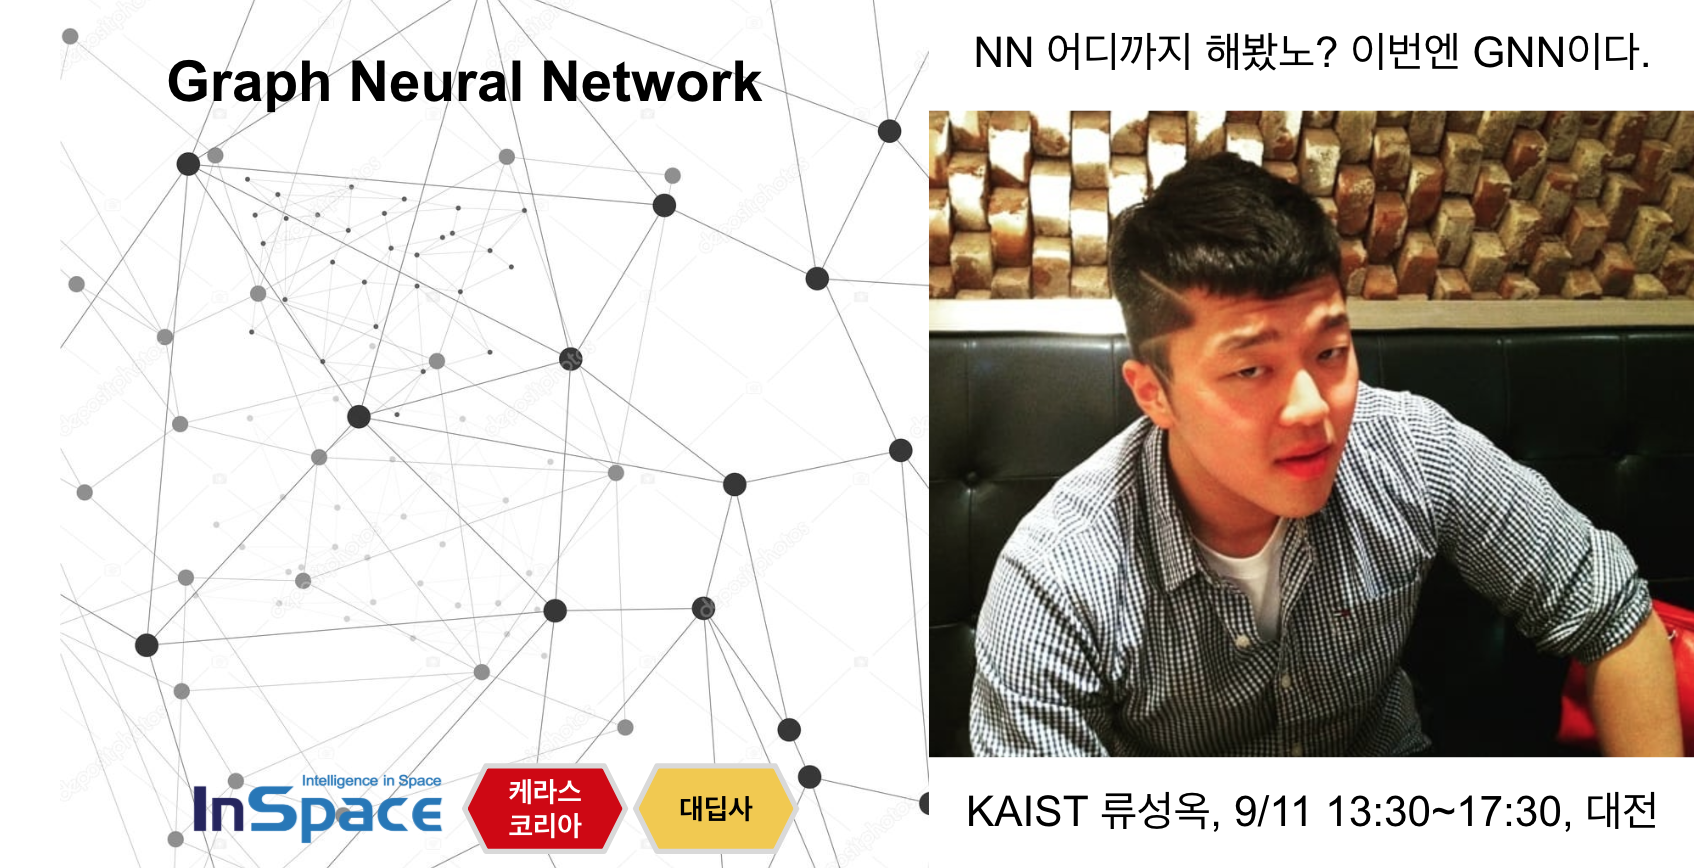
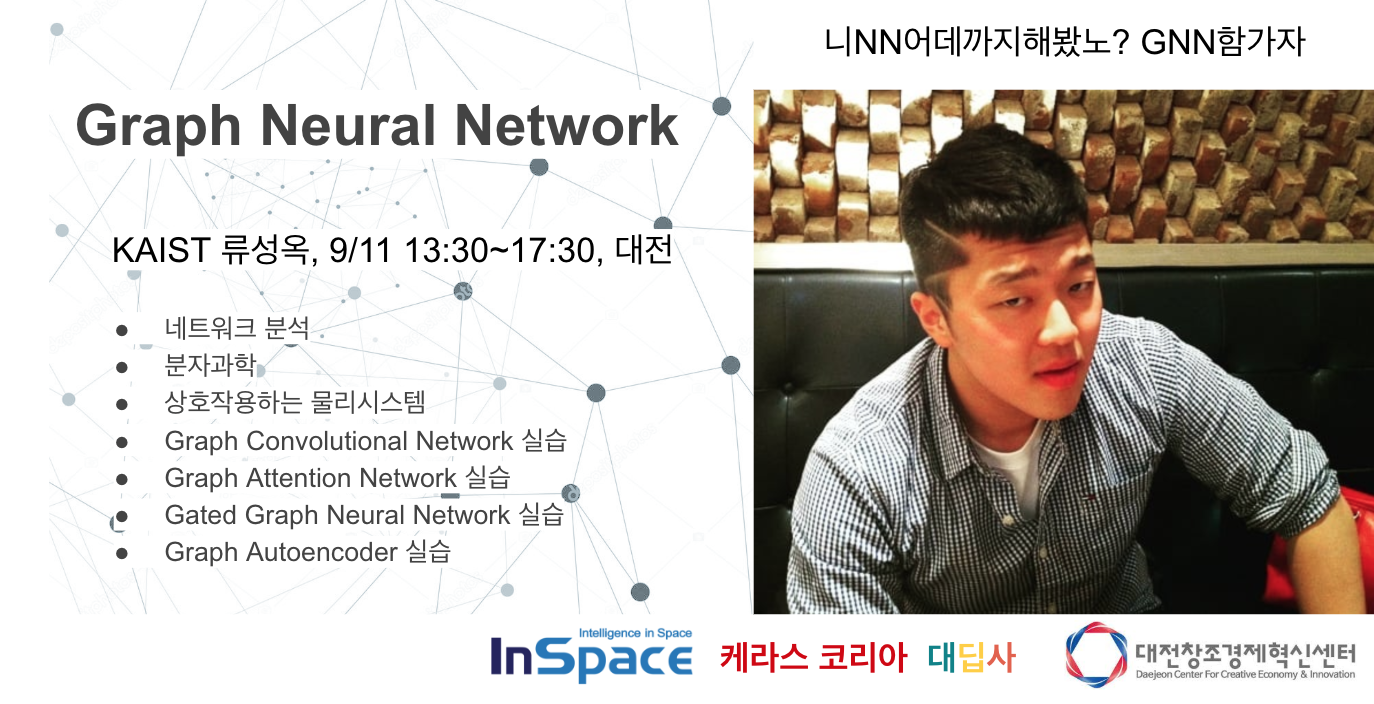
no message

diff --git a/_posts/2018-9-11-ISS_xNN_Graph_Neural_Network.md b/_posts/2018-9-11-ISS_xNN_Graph_Neural_Network.md
@@ -1,6 +1,6 @@
 ---
 layout: post
-title:  "NN 어디까지 해봤노? 이번엔 GNN이다."
+title:  "니NN어데까지해봤노? GNN함가자"
 author: 김태영
 date:   2018-09-11 13:00:00
 categories: seminar
@@ -19,7 +19,8 @@ image: http://tykimos.github.io/warehouse/2018-9-11-ISS_xNN_Graph_Neural_Network
 1. 일시 : 2018년 9월 11일 오후 1시 40분
 2. 장소 : 대전 유성구 대학로291 KAIST 나노종합기술원 9F 대전창조경제혁신센터 E19
 3. 주최 : (주)인스페이스, 케라스 코리아, 대딥사
-4. 발표내용
+4. 후원 : 대전창조경제혁신센터
+5. 발표내용
 
     * 그래프 신경망의 필요성
     * 그래프 신경망의 이론 및 실용적인 구현에 필요한 지식 
@@ -33,7 +34,7 @@ image: http://tykimos.github.io/warehouse/2018-9-11-ISS_xNN_Graph_Neural_Network
         3. Gated Graph Neural Network
         4. Graph Autoencoder
 
-5. 대상 : 인공지능 및 딥러닝에 관심있거나 관련 연구를 수행하시는 분들
+6. 대상 : 인공지능 및 딥러닝에 관심있거나 관련 연구를 수행하시는 분들
 
 ---
 ### 참고자료
